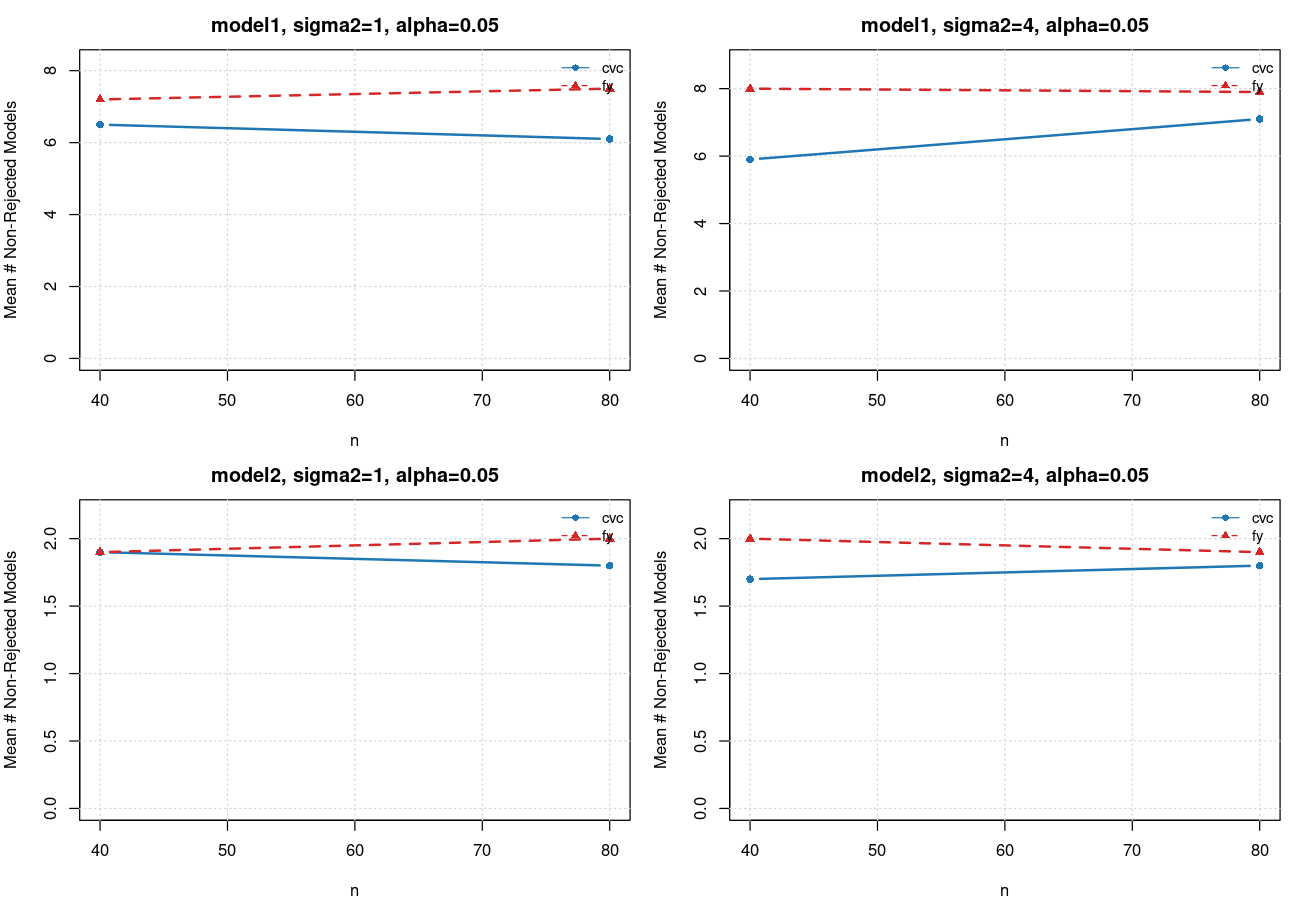
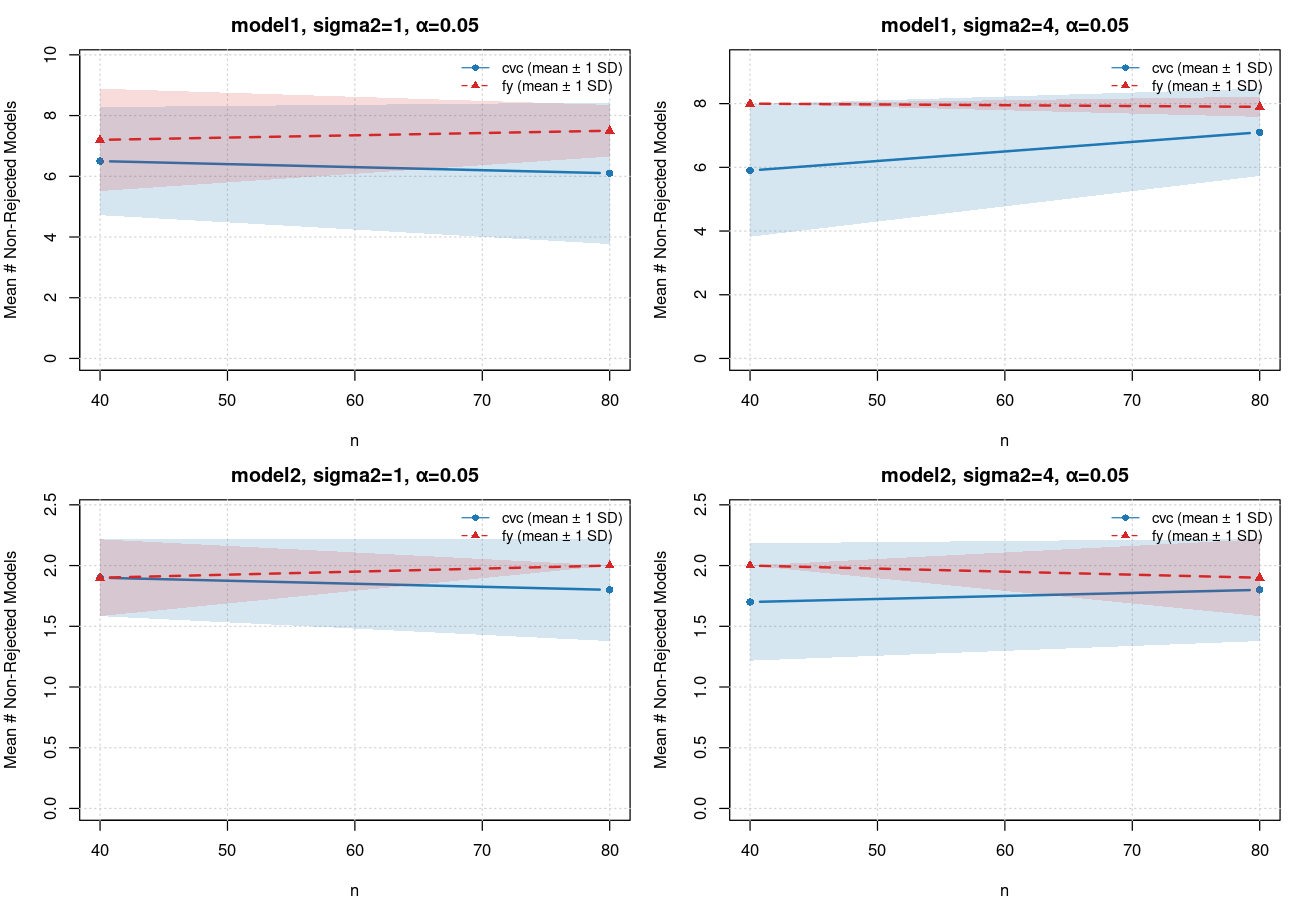
Clarify REPRO_GAP wording and add SD bands to nonrejected plots

diff --git a/REPRO_GAP.md b/REPRO_GAP.md
@@ -4,8 +4,9 @@
 
 ## Simulation 1 当前实现中的必要假设
 
-- 论文引用了 Shao (1993) 的基础设计数据（n=40），但仓库中没有该原始数据表。
-  当前实现使用 `X_{2:5} ~ N(0, I)` 并固定截距列为 1 生成数据。
+- 论文文字提到 `n=40` 与 Shao (1993) 的设定背景有关，但当前仓库未引入该原始数据表。
+  这不会阻塞 Simulation 1 运行；当前实现采用 `X_{2:5} ~ N(0, I)` 且截距列固定为 1。
+  该差异主要影响“与论文逐格数值完全一致”的可能性，不影响趋势复现目标。
 - V-fold 的具体折叠索引论文未固定。
   当前实现使用固定随机种子下的均衡随机 5-fold。
 - CVC 的 inequality screening 论文给出的是理论化形式。
